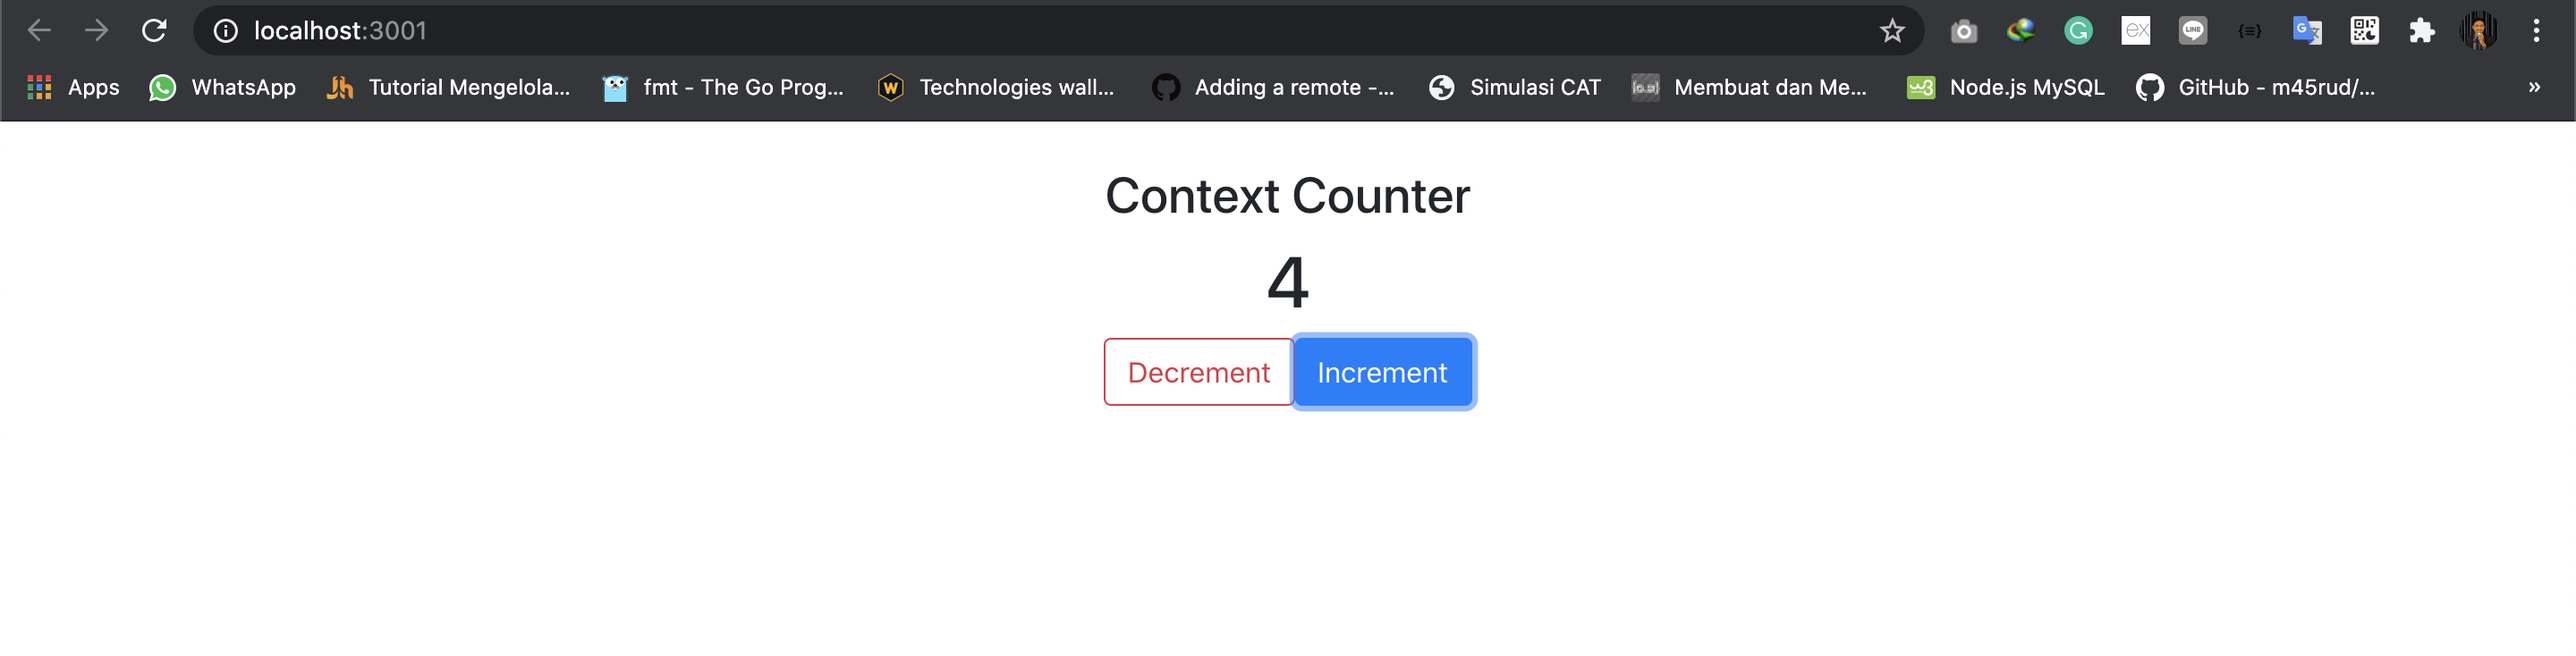
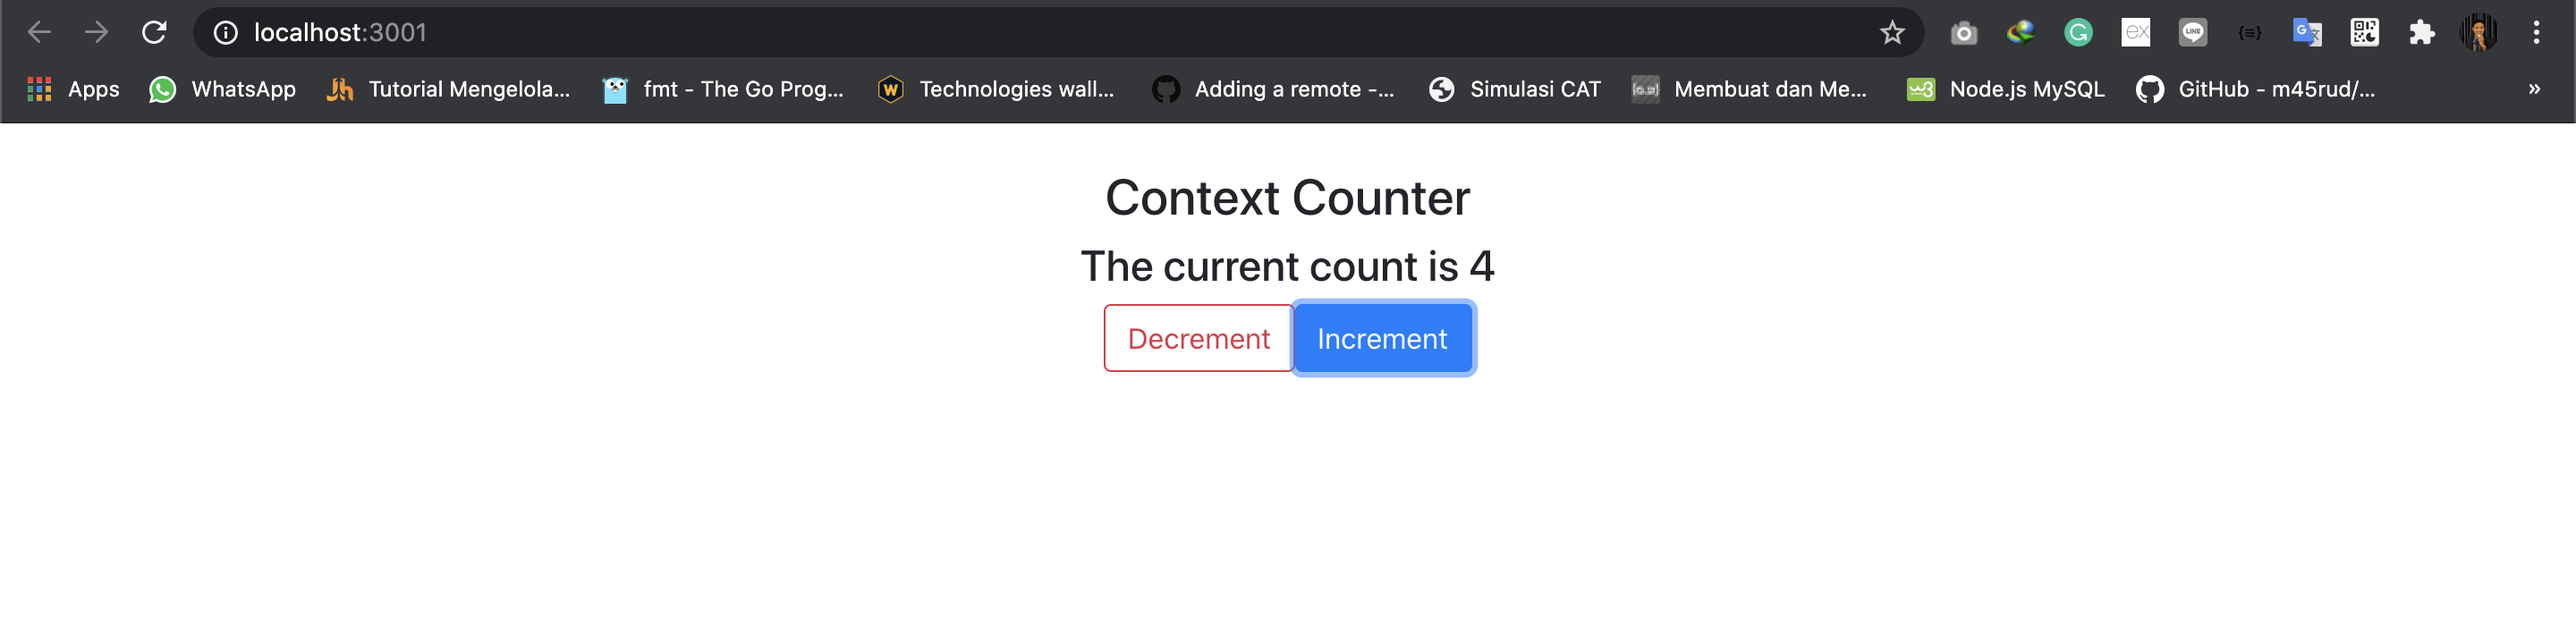
Context Counter

diff --git a/src/components/ButtonCounter.js b/src/components/ButtonCounter.js
@@ -10,7 +10,7 @@ const ButtonCounter = () => {
                     return (
                         <>
                             <div style={{height: 100}}>
-                                <h1>{number}</h1>
+                                <h4>The current count is {number}</h4>
                                 <button className="btn btn-outline-danger"
                                     onClick={decrement}>Decrement
                                 </button>
